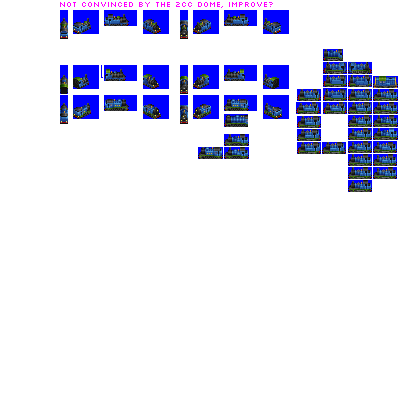
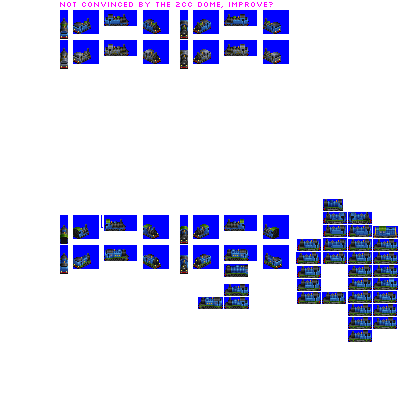
Change: additional liveries for Buffalo and Hercules

diff --git a/src/vehicles/buffalo.py b/src/vehicles/buffalo.py
@@ -18,8 +18,8 @@ def main(roster_id):
         fixed_run_cost_points=110,  # substantial cost bonus so it can make money
         random_reverse=True,
         gen=1,
-        additional_liveries=[],
-        sprites_complete=False,
+        additional_liveries=["FREIGHT_BLACK"],
+        sprites_complete=True,
     )
 
     consist.add_unit(type=SteamEngineUnit, weight=46, vehicle_length=6, spriterow_num=0)

diff --git a/src/vehicles/hercules.py b/src/vehicles/hercules.py
@@ -14,8 +14,8 @@ def main(roster_id):
         },
         tractive_effort_coefficient=0.24,
         gen=1,
-        additional_liveries=[],
-        sprites_complete=False,
+        additional_liveries=["FREIGHT_BLACK"],
+        sprites_complete=True,
     )
 
     consist.add_unit(type=SteamEngineUnit, weight=59, vehicle_length=5, spriterow_num=0)
